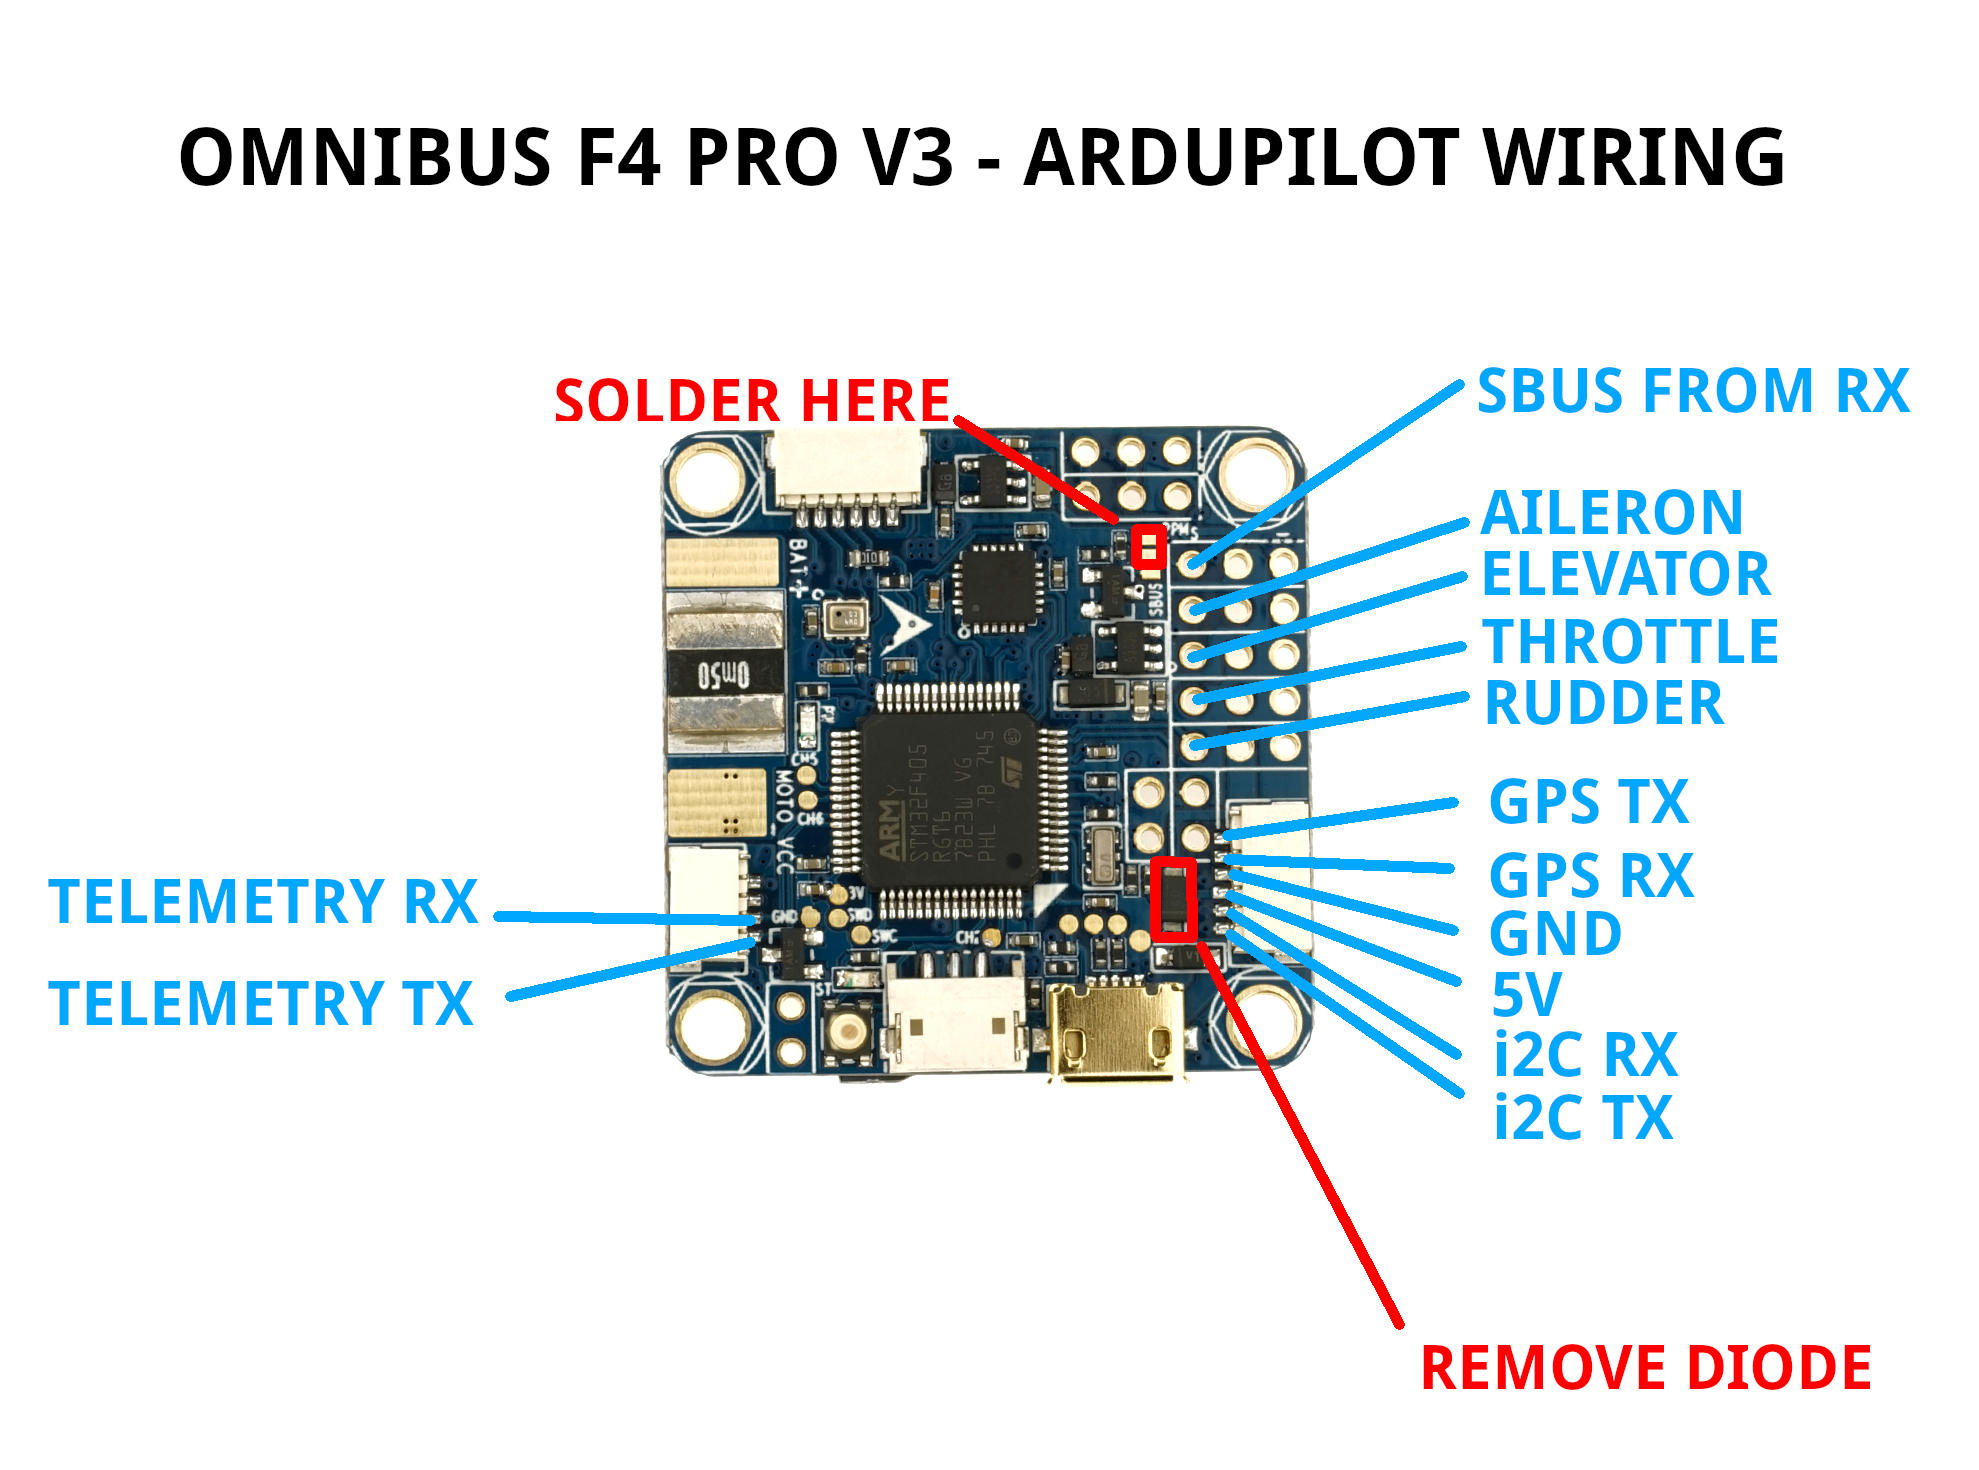
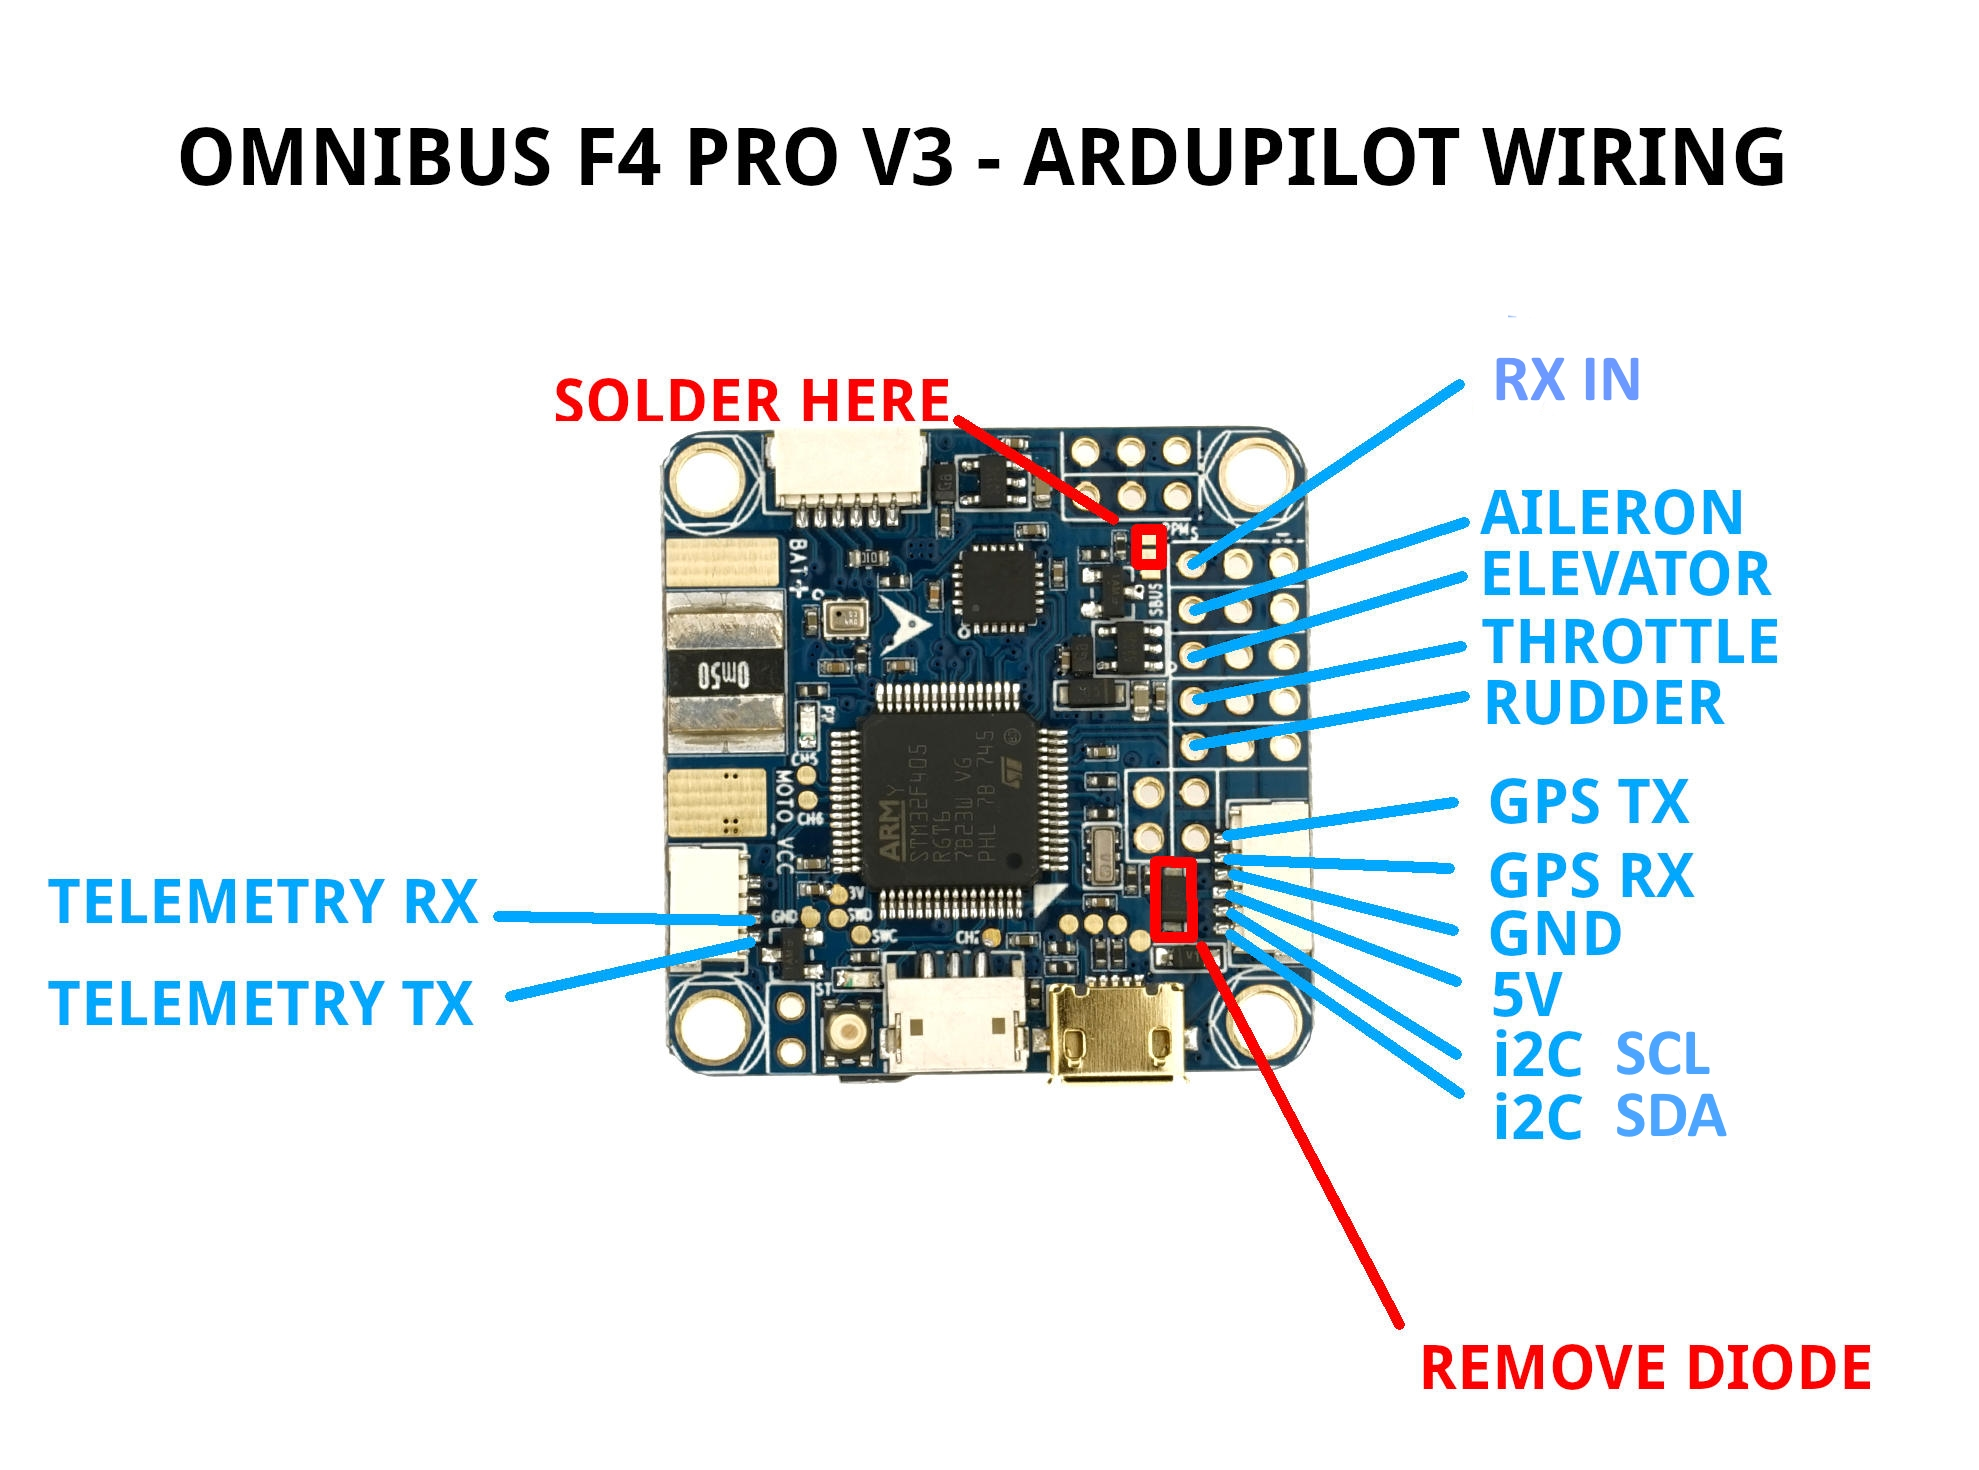
Corrected connection diagram, added info on I2C pullups, RSSI, and Current scaling (#1399)
* Adding I2C and RSSI notes

* Delete omnibusf4pro_ardupilot_wiring.jpg

* Corrected connection diagram

diff --git a/common/source/docs/common-omnibusf4pro.rst b/common/source/docs/common-omnibusf4pro.rst
@@ -53,7 +53,9 @@ GPS is attached to UART6
 
 Telem is available at UART 1
 
-The shared UART3/I2C pins are enabled only for I2C operation to allow external compass or digital airspeed sensor attachment.
+The shared UART3/I2C pins are enabled only for I2C operation to allow external compass or digital airspeed sensor attachment.If at least one device attached externally, does not have pull-up resistors, then 2K ohm pull-up resistors will need to be added externally.
+
+The board's RSSI pad can be used as an analog RSSI input. Use pin "0" as the RSSI input pin in Mission Planner. Mission planner default values for battery voltage and current scales are provided, however since many variations of this board are available, these may needed to be manually calibrated.
 
 If you want to power the servos from the ESC BEC via the board's center rail for the servo outputs, then you should remove the diode as per here: https://www.rcgroups.com/forums/showthread.php?2874687, otherwise, independently power the servos directly from the ESC or independent BEC with no connection to the board's servo output center rail.
 
@@ -64,7 +66,7 @@ If you want to power the servos from the ESC BEC via the board's center rail for
 Video power provided on the video input and output center rail, is provide through an on-board noise filter. Either ~4.5V (labeled 5V) or VBAT-0.5V (VBAT) can be selected by solder pads on the back of the board.
 
 PPM solder pad/resistor should be soldered and “S-BUS” resistor/solder pad removed
-Overwise UART1 or UART6 or RCIN will not work
+Otherwise, UART1 or UART6 or RCIN will not work
 
 .. figure:: ../../../images/omnibusf4pro_ardupilot_wiring.jpg
     :target: ../_images/omnibusf4pro_ardupilot_wiring.jpg
@@ -161,6 +163,9 @@ BAT_MONITOR=4
 Then reboot.
 
 BAT_VOLT_PIN 12
+
 BAT_CURR_PIN 11
+
 BAT_VOLT_MULT 11.0
-BAT_AMP_PERVOLT 38.0
+
+BAT_AMP_PERVOLT 38.0 (note, this value may vary from 18 to 38, depending on specific board manufacturer...will need to be calibrated to match actual current)
